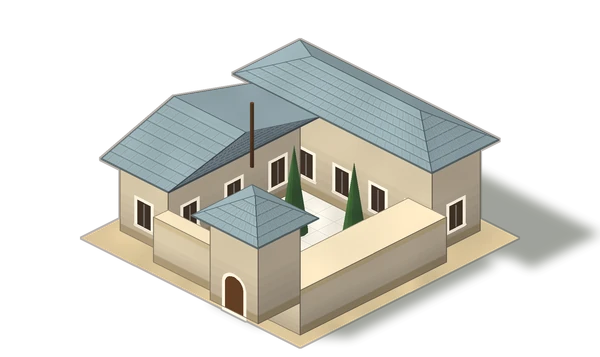
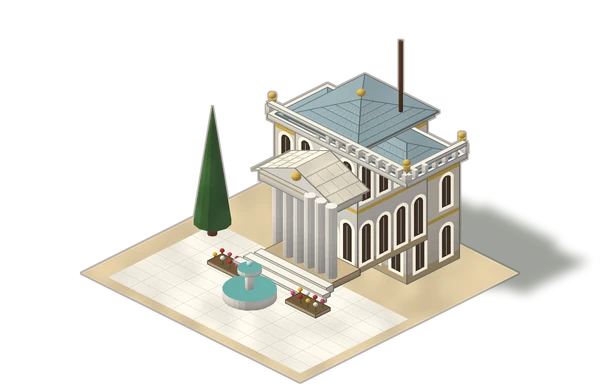
Imam wording at the mosque; first pass of a grander palace
- Mosque texts speak of imams instead of priests
- Saray redrawn after Dolmabahçe: marble facade with gilded bands,
  balustrades and urns, columned hall, dome (gilded at stage 3),
  fountain and tulip beds, clock tower and gate at stage 3

Claude-Session: https://claude.ai/code/session_01Majuqaso9wCr5SzvFxP8CZ

diff --git a/payitaht/lib/game/engine.ts b/payitaht/lib/game/engine.ts
@@ -26,7 +26,7 @@ export type Good = Resource | Luxury
 /**
  * HARİKALAR VE MUCİZELER (Ikariam'ın ada harikaları ve tapınağı).
  * Her adanın bir harikası vardır; harika bağışla yükselir, Cami'deki
- * rahiplerin biriktirdiği inançla harikanın mucizesi çağrılır.
+ * imamların biriktirdiği inançla harikanın mucizesi çağrılır.
  */
 export const MIRACLE_IDS = ['kalkan', 'bereket', 'ilim', 'savas', 'ruzgar', 'huzur', 'bolluk', 'demirci'] as const
 export type MiracleId = typeof MIRACLE_IDS[number]
@@ -190,7 +190,7 @@ export type Game = {
   mine: IslandMine
   /** Yetişkin halk: huzur ve barınma tavanına doğru ZAMANLA büyür (eski kayıtta yok = tavanda). */
   citizens?: number
-  /** Cami rahipleri, inanç, adanın harikası ve mucize durumu. */
+  /** Cami imamları, inanç, adanın harikası ve mucize durumu. */
   temple: Temple
   /** Tophane'de birlik başına saldırı/zırh yükseltmeleri. */
   upgrades: Partial<Record<UnitId, { atk: number; def: number }>>
@@ -475,7 +475,7 @@ export const RESEARCH: Record<ResearchId, { branch: ResearchBranch; name: string
   kultur: { branch: 'bilim', name: 'Kültür Alışverişi', description: 'Müze\'nin huzur katkısı %50 artar; yabancı hükümdarlarla kültür anlaşması yapılabilir.', cost: 480, duration: 80, required: 5, needs: 'devlet' },
   anatomi: { branch: 'bilim', name: 'Teşrih', description: 'Hekimler savaştan sonra iki kat asker kurtarır.', cost: 520, duration: 85, required: 5, needs: 'tip' },
   deney: { branch: 'bilim', name: 'Deneyler', description: 'Medrese\'de kristal ilime çevrilebilir (100 kristal → 150 ilim).', cost: 600, duration: 90, required: 6, needs: 'optik' },
-  din: { branch: 'bilim', name: 'Devlet Dini', description: 'Rahiplerin inancı %50 artar; harika mucizeden sonra üçte bir kısa dinlenir.', cost: 700, duration: 95, required: 6, needs: 'devlet' },
+  din: { branch: 'bilim', name: 'Devlet Dini', description: 'İmamların topladığı inanç %50 artar; harika mucizeden sonra üçte bir kısa dinlenir.', cost: 700, duration: 95, required: 6, needs: 'devlet' },
   kus_ucusu: { branch: 'bilim', name: 'Kuş Uçuşu', description: 'Humbaracı yetiştirilebilir: surların üstünden bomba atar.', cost: 900, duration: 110, required: 7, needs: 'deney' },
   matbaa: { branch: 'bilim', name: 'Matbaa', description: 'İlim üretimi %10 artar.', cost: 1400, duration: 130, required: 8, needs: 'mekanik_kalem' },
   // ASKERÎ (devam)
@@ -1086,7 +1086,7 @@ export function advance(source: Game, now: number): Game {
     const max = maxPopulation(g)
     const citizens = g.citizens ?? max
     g.citizens = citizens >= max ? max : Math.min(max, citizens + growthRate(g) * minutes)
-    // Rahipler inanç biriktirir.
+    // İmamlar inanç biriktirir.
     g.temple.faith = Math.min(FAITH_CAP, g.temple.faith + Math.min(g.temple.priests, priestCapacity(g)) * 0.5 * minutes *
       (g.research.includes('din') ? 1.5 : 1) * (govIs(g, 'mesihat') ? 1.5 : 1))
     // Mabet lütuf biriktirir.
@@ -1330,7 +1330,7 @@ export type Command =
   | { type: 'donate'; amount: number }
   /** Çarşıdaki tüccardan lüks kaynak al ya da sat. */
   | { type: 'trade'; id: Luxury; side: 'buy' | 'sell'; amount: number }
-  /** Cami'ye rahip ata. */
+  /** Cami'ye imam ata. */
   | { type: 'priests'; value: number }
   /** Adanın harikasına kereste bağışla. */
   | { type: 'wonder'; amount: number }
@@ -1488,7 +1488,7 @@ export function execute(source: Game, command: Command, now: number): { game: Ga
     if (t.wonderLevel < 1) return { game: g, error: 'Adanın harikası henüz kurulmadı. Kereste bağışla.' }
     if (t.active && now < t.until) return { game: g, error: 'Mucize zaten etkin.' }
     if (now < t.cooldownUntil) return { game: g, error: 'Harika dinleniyor; bir süre sonra tekrar dene.' }
-    if (t.faith < miracleCost(t.wonderLevel)) return { game: g, error: `${miracleCost(t.wonderLevel)} inanç gerekli. Rahiplerin biriktiriyor.` }
+    if (t.faith < miracleCost(t.wonderLevel)) return { game: g, error: `${miracleCost(t.wonderLevel)} inanç gerekli. İmamların biriktiriyor.` }
     t.faith -= miracleCost(t.wonderLevel)
     t.active = t.wonder
     t.until = now + miracleMinutes(t.wonderLevel) * 60_000

diff --git a/payitaht/components/game/ikariam-panels.tsx b/payitaht/components/game/ikariam-panels.tsx
@@ -1,7 +1,7 @@
 'use client'
 
 /**
- * Cami (rahip, harika, mucize), Tophane yükseltmeleri, Gelecek araştırmaları,
+ * Cami (imam, harika, mucize), Tophane yükseltmeleri, Gelecek araştırmaları,
  * Kara Pazar takası, Korsan Kalesi seferleri ve yaklaşan korsan baskını.
  * Hepsi motorun kendi fonksiyonlarını okur; panel sayı uydurmaz.
  */
@@ -88,7 +88,7 @@ export function GuildPanel({ game, now, onCommand }: { game: Game; now: number; 
   </section>
 }
 
-/** CAMİ: rahipler inanç biriktirir; inanç adanın harikasının mucizesini çağırır. */
+/** CAMİ: imamlar inanç biriktirir; inanç adanın harikasının mucizesini çağırır. */
 export function TemplePanel({ game, now, onCommand }: { game: Game; now: number; onCommand: (c: Command) => void }) {
   const t = game.temple
   const m = MIRACLES[t.wonder]
@@ -109,7 +109,7 @@ export function TemplePanel({ game, now, onCommand }: { game: Game; now: number;
       </div>
     </>}
     {game.buildings.cami < 1
-      ? <p className="requirement"><Hammer className="size-4" />Rahipler Cami'de hizmet eder. Önce Cami kur.</p>
+      ? <p className="requirement"><Hammer className="size-4" />İmamlar ve hocalar Cami'de hizmet eder. Önce Cami kur.</p>
       : <>
         <WorkforceSlider label="İmam" figure="rahip" value={t.priests} cap={cap} idle={idleWorkers(game)}
           preview={n => { const v = Math.min(n, cap) * 0.5; return { amount: v, icon: <Sparkles className="workforce-icon" />, text: <><b>{v.toFixed(1)}</b> inanç/dk</> } }}
@@ -120,7 +120,7 @@ export function TemplePanel({ game, now, onCommand }: { game: Game; now: number;
         {resting && <p className="fine-print"><KumSaatiArt className="size-3" /> Harika dinleniyor · {clock(t.cooldownUntil - now)}</p>}
         <Button size="sm" disabled={!!active || resting || t.wonderLevel < 1 || t.faith < need} onClick={() => onCommand({ type: 'miracle' })}>
           <Sparkles data-icon="inline-start" />Mucizeyi çağır ({num(need)} inanç)</Button>
-        <p className="fine-print">Her rahip dakikada 0,5 inanç toplar ve üretimde çalışmaz. Mucizeden sonra harika {MIRACLE_COOLDOWN_MS / 3600_000} saat dinlenir.</p>
+        <p className="fine-print">Her imam dakikada 0,5 inanç toplar ve üretimde çalışmaz. Mucizeden sonra harika {MIRACLE_COOLDOWN_MS / 3600_000} saat dinlenir.</p>
       </>}
   </section>
 }

diff --git a/payitaht/tools/art/buildings.py b/payitaht/tools/art/buildings.py
@@ -395,32 +395,159 @@ def divan(s, st):
         s.tree(1.7, 0.5, 0.9)
 
 
+def palace_face(length, h, floors, door=None, spacing=0.17):
+    """Saray cephesi: kat kat yüksek kemerli pencereler, altın kat silmeleri,
+    kaide ve yaldızlı saçak kuşağı (Dolmabahçe)."""
+    fh = h / floors
+    deco = [('band', 0, min(0.3, 0.07 / h), PAL['stone2'])]
+    n = max(1, int(length / spacing))
+    for f in range(floors):
+        vb = f * fh + 0.07
+        for i in range(n):
+            u = (i + 0.5) / n
+            if f == 0 and door is not None and abs(u - door) < 0.7 / n:
+                continue
+            deco.append(('arch', u, vb, 0.07, fh * 0.6))
+        if f > 0:
+            deco.append(('band', (f * fh - 0.012) / h, (f * fh + 0.012) / h, PAL['gold']))
+    deco.append(('band', 1 - 0.06 / h, 1, PAL['gold']))
+    if door is not None:
+        deco.append(('archdoor', door, 0, 0.17, 0.32))
+    return deco
+
+
+def balustrade(s, x0, y0, x1, y1, z, col=None, step=0.08, urns=True):
+    """Dam korkuluğu: ön iki kenarda babalar + küpeşte, köşelerde altın vazo."""
+    col = col or PAL['marble']
+    for (a0, a1, fixed, ax) in ((x0, x1, y1, 'x'), (y0, y1, x1, 'y')):
+        n = max(2, int((a1 - a0) / step))
+        for i in range(n + 1):
+            t = a0 + (a1 - a0) * i / n
+            if ax == 'x':
+                s.box(t - 0.012, fixed - 0.03, z, t + 0.012, fixed, z + 0.06, col, 'marble', outline=False)
+            else:
+                s.box(fixed - 0.03, t - 0.012, z, fixed, t + 0.012, z + 0.06, col, 'marble', outline=False)
+        if ax == 'x':
+            s.box(a0, fixed - 0.035, z + 0.06, a1, fixed, z + 0.085, col, 'marble')
+        else:
+            s.box(fixed - 0.035, a0, z + 0.06, fixed, a1, z + 0.085, col, 'marble')
+    if urns:
+        for (ux, uy) in ((x0 + 0.02, y1 - 0.02), (x1 - 0.02, y1 - 0.02), (x1 - 0.02, y0 + 0.02)):
+            s.cylinder(ux, uy, z + 0.085, z + 0.12, 0.02, PAL['gold'], 'lead', n=8)
+            s.sphere(ux, uy, z + 0.14, 0.022, PAL['gold'])
+
+
+def tulips(s, x0, y0, x1, y1, seed=0):
+    """Lale tarhı: taş bordürlü toprakta kırmızı, sarı, pembe ve beyaz laleler."""
+    s.box(x0, y0, 0, x1, y1, 0.025, PAL['stone2'], 'stone', top=hexc('#6f5234'), topmat='ground')
+    cols = [hexc('#c9302c'), hexc('#f2c230'), hexc('#d94f7a'), hexc('#f4efe4'), hexc('#b8232b')]
+    nx = max(2, int((x1 - x0) / 0.055)); ny = max(1, int((y1 - y0) / 0.06))
+    for i in range(nx):
+        for j in range(ny):
+            x = x0 + (i + 0.5) * (x1 - x0) / nx
+            y = y0 + (j + 0.5) * (y1 - y0) / ny
+            s.cylinder(x, y, 0.025, 0.07, 0.004, hexc('#4f7d3a'), 'leaf', n=5, cast=False)
+            s.sphere(x, y, 0.078, 0.014, cols[(i * 2 + j + seed) % len(cols)], n=8, rings=5)
+
+
+def fountain(s, cx, cy, r=0.16, tiers=2):
+    """Mermer havuzlu fıskiye: geniş havuz, sütunlu gövde, üst kâse."""
+    s.cylinder(cx, cy, 0, 0.07, r, PAL['marble'], 'marble', top=PAL['water'], n=26)
+    s.cylinder(cx, cy, 0.07, 0.2, 0.026, PAL['marble'], 'marble', n=10)
+    s.cylinder(cx, cy, 0.2, 0.23, r * 0.45, PAL['marble'], 'marble', n=16, top=PAL['water'])
+    if tiers >= 2:
+        s.cylinder(cx, cy, 0.23, 0.32, 0.016, PAL['marble'], 'marble', n=8)
+        s.cylinder(cx, cy, 0.32, 0.34, r * 0.25, PAL['marble'], 'marble', n=12, top=PAL['water'])
+        s.sphere(cx, cy, 0.37, 0.018, hexc('#bfe3e6'))
+    else:
+        s.sphere(cx, cy, 0.26, 0.018, hexc('#bfe3e6'))
+
+
 def saray(s, st):
-    ground(s, 0.1, 0.1, 1.92, 1.92, hexc('#d6c095'))
-    pave(s, 0.45, 0.45, 1.6, 1.6, PAL['marble'], n=8)
-    if st >= 1:
-        block(s, 0.2, 0.2, 1.7, 0.6, 0.75, roof='hip', roofcol=PAL['lead'], ridge=0.9)
-        block(s, 0.2, 0.6, 0.6, 1.7, 0.6 if st == 1 else 0.75, roof='hip', roofcol=PAL['lead'], ridge=0.6)
+    """DOLMABAHÇE SARAYI: beyaz mermer uzun cephe, kat kat kemerli pencereler,
+    altın silmeler, korkuluklu dam ve altın vazolar; ortada sütunlu alınlıklı
+    tören salonu ve büyük kubbe. Aşama aşama kanatlar, saat kulesi, Saltanat
+    Kapısı, lale bahçeleri ve fıskiyeler eklenir."""
+    ground(s, 0.1, 0.1, 1.92, 1.92, hexc('#d9c6a0'))
+    marble, gold, lead = PAL['marble'], PAL['gold'], PAL['lead']
+    cream = hexc('#f6ecd8')
+    pave(s, 0.25, 0.95, 1.85, 1.85, marble, n=9)
+    # --- Ana cephe (arkada, x boyunca).
+    mx0, mx1 = (0.45, 1.55) if st == 1 else (0.2, 1.8)
+    my0, my1 = 0.22, 0.66
+    mh = 0.78
+    s.box(mx0, my0, 0, mx1, my1, mh, cream, 'marble',
+          deco_y=palace_face(mx1 - mx0, mh, 2), deco_x=palace_face(my1 - my0, mh, 2))
+    s.box(mx0 - 0.03, my0 - 0.03, mh, mx1 + 0.03, my1 + 0.03, mh + 0.04, marble, 'marble')
+    s.hip(mx0, my0, mx1, my1, mh + 0.04, 0.08, lead, over=0.0, mat='lead', ridge=(mx1 - mx0) - (my1 - my0))
+    balustrade(s, mx0 - 0.03, my0 - 0.03, mx1 + 0.03, my1 + 0.03, mh + 0.04)
+    # --- Yan kanatlar.
+    wings = []
     if st >= 2:
-        block(s, 1.35, 0.6, 1.75, 1.45, 0.6, roof='hip', roofcol=PAL['lead'], ridge=0.4)
-        domed(s, 0.95, 0.4, 0.82, 0.22, drum=0.08)
-        # havuz
-        s.flat([(0.9, 0.9, 0.01), (1.2, 0.9, 0.01), (1.2, 1.2, 0.01), (0.9, 1.2, 0.01)], PAL['water'], 'flat', key=-40)
-    # ön duvar + kapı kulesi
-    wall_h = 0.35
-    s.box(0.6, 1.7, 0, 1.2, 1.82, wall_h, PAL['plaster'], 'plaster', deco_y=trims(wall_h))
-    s.box(1.5, 1.45 if st >= 2 else 0.6, 0, 1.82, 1.82, wall_h, PAL['plaster'], 'plaster', deco_x=trims(wall_h))
-    block(s, 1.15, 1.55, 1.55, 1.9, 0.7, door_y=0.5, wins=False, roof='hip', roofcol=PAL['lead'])
-    s.tree(1.0, 1.05, 0.7, 'cypress') if st == 1 else None
-    if st == 3:
-        # Adalet kulesi
-        block(s, 0.25, 0.25, 0.55, 0.55, 1.55, wins=False, roof='flat', key=None)
-        s.cone(0.4, 0.4, 1.6, 0.45, 0.21, PAL['lead'], 'lead', n=4)
-        s.sphere(0.4, 0.4, 2.08, 0.02, PAL['gold'])
-        domed(s, 0.4, 1.25, 0.78, 0.16, drum=0.06)
-        s.flag(1.35, 1.72, 0.95, 0.5)
-    s.flag(1.2, 1.6, 0.92, 0.5)
-    s.tree(1.45, 1.0, 0.75, 'cypress')
+        wings.append((1.42, my1, 1.8, 1.32))
+    if st >= 3:
+        wings.append((0.2, my1, 0.58, 1.32))
+    for (x0, y0, x1, y1) in wings:
+        wh = 0.66
+        s.box(x0, y0, 0, x1, y1, wh, cream, 'marble', deco_y=palace_face(x1 - x0, wh, 2, door=0.5), deco_x=palace_face(y1 - y0, wh, 2))
+        s.box(x0 - 0.03, y0, wh, x1 + 0.03, y1 + 0.03, wh + 0.04, marble, 'marble')
+        s.hip(x0, y0, x1, y1, wh + 0.04, 0.07, lead, over=0.0, mat='lead', ridge=(y1 - y0) - (x1 - x0))
+        balustrade(s, x0 - 0.03, y0, x1 + 0.03, y1 + 0.03, wh + 0.04)
+        s.flag((x0 + x1) / 2, (y0 + y1) / 2, wh + 0.12, 0.42)
+    # --- Tören salonu (orta): öne taşan, daha yüksek; sütunlu alınlıklı revak.
+    cx0, cx1 = 0.74, 1.26
+    ch = (0.96, 1.02, 1.1)[st - 1]
+    s.box(cx0, my0 - 0.02, 0, cx1, my1 + 0.12, ch, marble, 'marble',
+          deco_y=palace_face(cx1 - cx0, ch, 2, door=0.5, spacing=0.14), deco_x=palace_face(my1 - my0 + 0.14, ch, 2, spacing=0.14))
+    s.box(cx0 - 0.03, my0 - 0.05, ch, cx1 + 0.03, my1 + 0.15, ch + 0.05, marble, 'marble', deco_y=[('band', 0.3, 1, gold)], deco_x=[('band', 0.3, 1, gold)])
+    portico(s, cx0 - 0.02, cx1 + 0.02, my1 + 0.12, 0.24, 0.6, 6, col=marble, roofcol=cream)
+    s.sphere((cx0 + cx1) / 2, my1 + 0.37, 0.76, 0.03, gold)  # alınlıkta tuğra madalyonu
+    # Merdiven: alçalan geniş mermer basamaklar.
+    for k in range(3):
+        s.box(cx0 - 0.04 - k * 0.03, my1 + 0.36 + k * 0.06, 0, cx1 + 0.04 + k * 0.03, my1 + 0.42 + k * 0.06, 0.05 - k * 0.016, marble, 'marble')
+    # Kubbe: kasnaklı, aşama 3'te yaldızlı; altın alem.
+    if st >= 2:
+        r = 0.2 if st == 2 else 0.24
+        dcol = lead if st == 2 else hexc('#d8b35a')
+        s.cylinder((cx0 + cx1) / 2, (my0 + my1) / 2 + 0.05, ch + 0.05, ch + 0.17, r * 1.02, marble, 'marble', n=24)
+        s.dome((cx0 + cx1) / 2, (my0 + my1) / 2 + 0.05, ch + 0.17, r, dcol, 'lead', hscale=1.0, finial=False)
+        top = ch + 0.17 + r
+        s.cylinder((cx0 + cx1) / 2, (my0 + my1) / 2 + 0.05, top, top + 0.1, 0.012, gold, 'flat', n=6)
+        s.sphere((cx0 + cx1) / 2, (my0 + my1) / 2 + 0.05, top + 0.12, 0.026, gold)
+    else:
+        s.hip(cx0 - 0.03, my0 - 0.05, cx1 + 0.03, my1 + 0.15, ch + 0.05, 0.1, lead, over=0.02, mat='lead')
+        s.sphere((cx0 + cx1) / 2, (my0 + my1) / 2 + 0.05, ch + 0.2, 0.026, gold)
+    s.flag((cx0 + cx1) / 2 + 0.16, my0 + 0.1, ch + 0.05, 0.55)
+    # --- Bahçe: fıskiye, lale tarhları, serviler.
+    fountain(s, 1.0, 1.42, 0.2 if st >= 2 else 0.16, tiers=2 if st >= 2 else 1)
+    beds = [(0.55, 1.2, 0.8, 1.32), (1.2, 1.2, 1.45, 1.32)]
+    if st >= 2:
+        beds += [(0.55, 1.55, 0.8, 1.67), (1.2, 1.55, 1.45, 1.67)]
+    if st >= 3:
+        beds += [(0.28, 1.4, 0.45, 1.75), (1.6, 1.4, 1.77, 1.62)]
+    for i, b in enumerate(beds):
+        tulips(s, *b, seed=i)
+    for (x, y) in ((0.32, 1.05), (1.68, 1.05))[: (1 if st == 1 else 2)]:
+        s.tree(x, y, 0.95, 'cypress')
+    # --- Saat kulesi (aşama 3): ince, kademeli, saat kadranlı, kurşun külahlı.
+    if st >= 3:
+        tx, ty = 1.72, 1.78
+        s.box(tx - 0.09, ty - 0.09, 0, tx + 0.09, ty + 0.09, 0.62, cream, 'marble',
+              deco_y=[('band', 0.9, 1, gold), ('arch', 0.5, 0.1, 0.06, 0.2)], deco_x=[('band', 0.9, 1, gold), ('arch', 0.5, 0.1, 0.06, 0.2)])
+        s.box(tx - 0.075, ty - 0.075, 0.62, tx + 0.075, ty + 0.075, 0.9, marble, 'marble',
+              deco_y=[('band', 0.45, 0.8, hexc('#f7f2e6')), ('band', 0.93, 1, gold)], deco_x=[('band', 0.45, 0.8, hexc('#f7f2e6')), ('band', 0.93, 1, gold)])
+        for (px, py) in ((tx, ty + 0.078), (tx + 0.078, ty)):
+            s.sphere(px, py, 0.78, 0.035, hexc('#1f2a36'))
+        s.box(tx - 0.06, ty - 0.06, 0.9, tx + 0.06, ty + 0.06, 1.02, cream, 'marble', deco_y=[('arch', 0.5, 0.02, 0.05, 0.08)], deco_x=[('arch', 0.5, 0.02, 0.05, 0.08)])
+        s.cone(tx, ty, 1.02, 0.2, 0.08, lead, 'lead', n=8)
+        s.sphere(tx, ty, 1.24, 0.018, gold)
+        # Saltanat Kapısı: iki yaldızlı sütunlu kapı, ön kenarda alçak korkuluk.
+        s.box(0.3, 1.86, 0, 0.78, 1.9, 0.12, marble, 'marble')
+        s.box(1.22, 1.86, 0, 1.6, 1.9, 0.12, marble, 'marble')
+        for gx in (0.8, 1.2):
+            s.box(gx - 0.04, 1.84, 0, gx + 0.04, 1.92, 0.42, marble, 'marble', deco_y=[('band', 0.8, 1, gold)], deco_x=[('band', 0.8, 1, gold)])
+            s.sphere(gx, 1.88, 0.47, 0.035, gold)
+        s.flag(0.24, 0.3, mh + 0.12, 0.5)
 
 
 def kereste(s, st):
